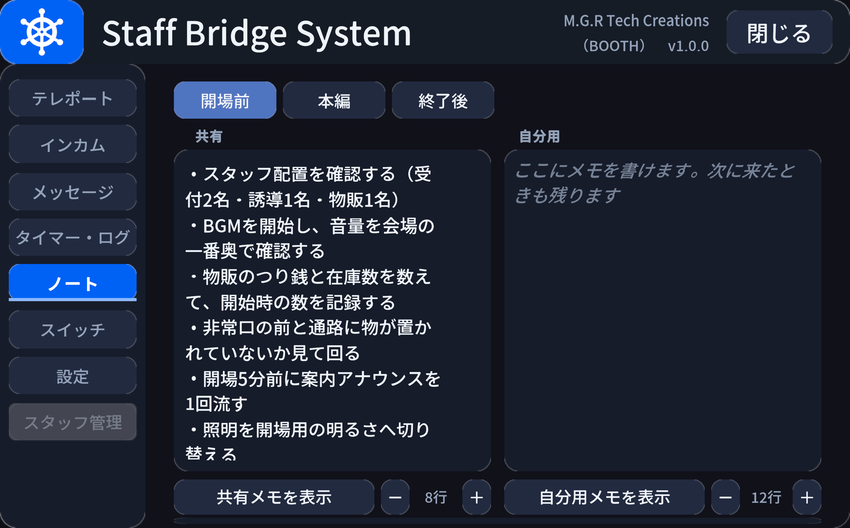
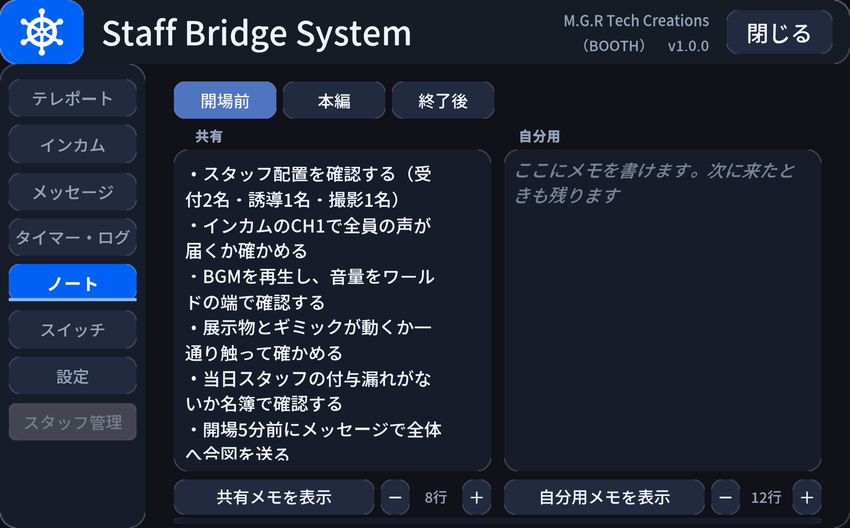
SBSの現行仕様に合わせてマニュアルを更新する
通知位置、VRメガホン、タイマー音、スタッフ保護、既存ワールドの更新手順を実装と照合する。
タブ配置とフォントの説明を修正し、操作画面の画像を更新する。
回りくどい説明を校正し、設定や操作によって変わる内容を具体的に書く。

MkDocs strict build、内部リンク1034件、Chromeでの表示を確認。

Changed region(s): [[0.2141, 0.3636, 0.52, 0.8788]]

diff --git a/docs/staff-bridge-system/customize.md b/docs/staff-bridge-system/customize.md
@@ -1,6 +1,6 @@
 # 見た目のカスタマイズ
 
-メニューの配色とフォントは、セットアップウィンドウの **カスタマイズ ＞ テーマ・フォント** ページ から変更します。
+メニューの配色とフォントは、セットアップウィンドウの **カスタマイズ ＞ テーマ・フォント** ページから変更します。
 
 ![テーマ・フォントページ](images/edit-theme.png)
 
@@ -10,7 +10,7 @@
 
 同梱プリセットは9種類です。選択すると、実機と同じ比率のミニプレビューで配色を確認できます。
 
-下の表の配色見本は、左から **背景／面／ボタン／選択／文字** です（セットアップウィンドウに出る見本と同じ並び順）。「選択」はタブや現在地のハイライトに使われ、そのテーマの性格を決める色です。
+下の表の配色見本は、左から **背景／面／ボタン／選択／文字** です（セットアップウィンドウに出る見本と同じ並び順）。「選択」はタブや現在地のハイライトに使う色です。
 
 ### 暗色
 
@@ -18,13 +18,13 @@
 
 | テーマ | 配色 | 特徴 |
 |---|---|---|
-| コントロールルーム（既定） | <span class="sw"><i style="background:#0D1119"></i><i style="background:#161D2B"></i><i style="background:#222C3F"></i><i style="background:#0062F5"></i><i style="background:#EFF3FA"></i></span> | 紺×青の落ち着いた定番 |
-| バックステージ（炭黒×イエロー） | <span class="sw"><i style="background:#131211"></i><i style="background:#1E1C19"></i><i style="background:#262421"></i><i style="background:#FFC933"></i><i style="background:#F7F5F0"></i></span> | 工具・安全ベストのような現場感 |
-| トワイライト（藍紫） | <span class="sw"><i style="background:#181729"></i><i style="background:#232138"></i><i style="background:#302D4B"></i><i style="background:#A99BE8"></i><i style="background:#F2F0FA"></i></span> | 夜空のような藍紫 |
-| ランタン（暖色） | <span class="sw"><i style="background:#1C1613"></i><i style="background:#281F1A"></i><i style="background:#362A22"></i><i style="background:#F0913D"></i><i style="background:#F7F0E8"></i></span> | 提灯・焚き火のような暖かい暗色 |
-| オーシャン（深青×シアン） | <span class="sw"><i style="background:#101820"></i><i style="background:#182430"></i><i style="background:#24333F"></i><i style="background:#3EC6DE"></i><i style="background:#EDF4F8"></i></span> | 水中のような涼しい深青 |
-| いちごショコラ（暗色） | <span class="sw"><i style="background:#241318"></i><i style="background:#311C24"></i><i style="background:#402731"></i><i style="background:#F291B4"></i><i style="background:#FAF2F0"></i></span> | ショコラ×いちごの暗いかわいい系 |
-| グラファイト（無彩色） | <span class="sw"><i style="background:#141518"></i><i style="background:#1F2126"></i><i style="background:#2A2D33"></i><i style="background:#E8EAEE"></i><i style="background:#EDEFF2"></i></span> | 黒×白のミニマル |
+| コントロールルーム（既定） | <span class="sw"><i style="background:#0D1119"></i><i style="background:#161D2B"></i><i style="background:#222C3F"></i><i style="background:#0062F5"></i><i style="background:#EFF3FA"></i></span> | 紺の背景と青のアクセント |
+| バックステージ（炭黒×イエロー） | <span class="sw"><i style="background:#131211"></i><i style="background:#1E1C19"></i><i style="background:#262421"></i><i style="background:#FFC933"></i><i style="background:#F7F5F0"></i></span> | 炭黒の背景と黄色のアクセント |
+| トワイライト（藍紫） | <span class="sw"><i style="background:#181729"></i><i style="background:#232138"></i><i style="background:#302D4B"></i><i style="background:#A99BE8"></i><i style="background:#F2F0FA"></i></span> | 藍紫の背景と薄紫のアクセント |
+| ランタン（暖色） | <span class="sw"><i style="background:#1C1613"></i><i style="background:#281F1A"></i><i style="background:#362A22"></i><i style="background:#F0913D"></i><i style="background:#F7F0E8"></i></span> | 暗い茶色の背景とオレンジのアクセント |
+| オーシャン（深青×シアン） | <span class="sw"><i style="background:#101820"></i><i style="background:#182430"></i><i style="background:#24333F"></i><i style="background:#3EC6DE"></i><i style="background:#EDF4F8"></i></span> | 深い青の背景とシアンのアクセント |
+| いちごショコラ（暗色） | <span class="sw"><i style="background:#241318"></i><i style="background:#311C24"></i><i style="background:#402731"></i><i style="background:#F291B4"></i><i style="background:#FAF2F0"></i></span> | 暗い赤茶の背景とピンクのアクセント |
+| グラファイト（無彩色） | <span class="sw"><i style="background:#141518"></i><i style="background:#1F2126"></i><i style="background:#2A2D33"></i><i style="background:#E8EAEE"></i><i style="background:#EDEFF2"></i></span> | 黒の背景と白のアクセント |
 | カラーユニバーサル | <span class="sw"><i style="background:#12151A"></i><i style="background:#1B2028"></i><i style="background:#2A3038"></i><i style="background:#E9EDF2"></i><i style="background:#EDF1F6"></i></span> | 発話=青・OFF=橙 |
 
 </div>
@@ -35,15 +35,15 @@
 
 | テーマ | 配色 | 特徴 |
 |---|---|---|
-| ストロベリークリーム（明色） | <span class="sw"><i style="background:#F6EDE6"></i><i style="background:#FBF6F1"></i><i style="background:#EBDBD2"></i><i style="background:#D96A93"></i><i style="background:#3A2E2C"></i></span> | 生クリーム×いちごの明るいかわいい系 |
+| ストロベリークリーム（明色） | <span class="sw"><i style="background:#F6EDE6"></i><i style="background:#FBF6F1"></i><i style="background:#EBDBD2"></i><i style="background:#D96A93"></i><i style="background:#3A2E2C"></i></span> | クリーム色の背景とピンクのアクセント |
 
 </div>
 
 ## 配色を自分で決める（カスタム）
 
-テーマ一覧の「カスタム（色を自分で決める）」を選ぶと、役割色12色を個別に編集できます。プリセットを起点にして一部だけ変えることもできます。
+テーマ一覧の「カスタム（色を自分で決める）」を選ぶと、役割色12色を個別に編集できます。プリセットの色を一部だけ変えることもできます。
 
-役割色の意味はテーマをまたいで固定されています。
+各色の用途は、どのテーマでも共通です。
 
 | 役割 | 用途 |
 |---|---|
@@ -53,11 +53,11 @@
 | 退出（Danger 系） | OFF・退出 |
 | 本文 / 見出し | 文字色 |
 
-発話ボタンと退出ボタンは「ボタンの地色 ＋ 左端の意味色の帯 ＋ 意味色の文字」で構成されます。彩度の高い塗りが並ぶとフッターだけテーマから浮くためです。**送信は緑系・退出は赤系**という意味色は、カラーユニバーサル（青 × 橙）を除いてどのテーマでも共通なので、テーマを変えても操作感は変わりません。
+発話ボタンと退出ボタンは「ボタンの地色 ＋ 左端の意味色の帯 ＋ 意味色の文字」で構成されます。**送信は緑系・退出は赤系**という色分けは、カラーユニバーサル（青 × 橙）を除いて共通です。
 
 ## フォントを差し替える { #font }
 
-既定では、前提パッケージの日本語フォント（VRChat のフォールバックと同じ NotoSansJP）が使われます。指定なしのままで日本語が表示されるので、フォントの用意は不要です。
+出荷テキストは軽量な Empty SDF を参照し、VRChatではクライアント内蔵の日本語フォントへフォールバックして表示されます。Unity Editorでは、前提パッケージの日本語フォントをセットアップがフォールバックへ設定します。指定なしのままで使えます。
 
 差し替えたい場合は、同じ画面の「フォント（任意）」に TMP フォントアセットを指定すると、生成されるテキストにそのフォントが使われます。色テーマとは独立した設定なので、どのテーマとも組み合わせられます。
 

diff --git a/docs/staff-bridge-system/reference.md b/docs/staff-bridge-system/reference.md
@@ -28,7 +28,7 @@
 
 メニューの開閉・表示位置・スタッフ判定の門番を担当します。個々の機能はパネルとして分離されています。
 
-下の「開閉操作」「表示」は、セットアップ窓の **カスタマイズ ＞ メニューの出かた** ページからも変えられます（通常はそちらが早いです）。
+下の「開閉操作」「表示」は、セットアップ窓の **カスタマイズ ＞ メニューの出かた** ページからも変えられます。
 
 ![StaffMenuShell のインスペクタ](images/inspector-menushell.png)
 
@@ -103,17 +103,17 @@
 
 ## StaffMegaphone（メガホン） { #megaphone }
 
-拡声している間だけ、スタッフ以外を含む全員へ声を届けます。インカムのチャンネル機構の外を通るため、インカムとは競合しません。
+拡声している間だけ、スタッフ以外を含む全員へ声を届けます。インカム送信とは同時に使えず、片方の使用中はもう片方を起動できません。
 
 | 項目 | 型 | 既定 | 内容 |
 |---|---|---|---|
-| 起動長押し秒 | float | 0.5 | ボタンを押し続けてから拡声が始まるまでの秒数（誤タップ防止） |
-| 最大使用秒 | float | 180 | 連続使用がこの秒数を超えたら強制的に切る保険 |
+| 起動長押し秒 | float | 0.5 | ボタン・VRトリガーを保持してから拡声が始まるまでの秒数（誤タップ防止） |
+| 最大使用秒 | float | 180 | 連続使用できる秒数。超えると自動で停止する |
 | VRジェスチャーを使う | bool | ON | 左手をインカムと同じ位置へ近づけてトリガーを引くと拡声する。OFF にするとボタンと Desktop キーだけになる |
 
 インカムとの相互排他、スタッフでなくなったときの即時停止、使用中のステータス表示は常に有効で、設定項目はありません。
 
-ボタンの方式（長押し／トグル）と Desktop キーは各自が[設定タブ](usage.md#settings)で選びます。初期値は [StaffTalkSettings](#talk-settings) が持ちます。ジェスチャーの位置（耳／肩／胸元）と判定半径は[インカム](#incom)側の設定を共通で使い、手はインカム＝右・メガホン＝左で固定です。
+ボタンの方式（長押し／トグル）、Desktopキー、VRの方式（長押し／トグル／OFF）は各自が[設定タブ](usage.md#settings)で選びます。初期値は [StaffTalkSettings](#talk-settings) が持ちます。ジェスチャーの位置（耳／肩／胸元）と判定半径は[インカム](#incom)側の設定を共通で使い、手はインカム＝右・メガホン＝左で固定です。
 
 ---
 
@@ -160,7 +160,7 @@
 
 | 項目 | 型 | 既定 | 内容 |
 |---|---|---|---|
-| 表示位置 | int | 0 | 出す位置の初期値（0 = 左下 / 2 = 表示しない。1 = 右下は廃止し、指定されていても左下へ丸める）。**各自が設定タブで上書きでき、その選択は PlayerData に保存されます** |
+| 表示位置 | int | 0 | 出す位置の初期値（0 = 左下 / 2 = 表示しない / 3 = 左上。1 = 右下は廃止し、指定されていても左下へ丸める）。**各自が設定タブで上書きでき、その選択は PlayerData に保存されます** |
 | 入退室を表示する | bool | ON | 入退室をログに流す。人の出入りが多いイベントでは OFF にできる |
 | 表示秒 | float | 20 | 1件が消えるまでの秒数 |
 | 自分宛表示秒 | float | 40 | 個別に自分宛だったメッセージが消えるまでの秒数（読み逃し防止のため長め） |
@@ -180,6 +180,7 @@
 |---|---|---|---|
 | 確認の有効秒 | float | 5 | 共有タイマーの開始／取消で、1回目から2回目までに確定できる秒数 |
 | ログ出力する | bool | OFF | 共有タイマーの操作を Console に出す |
+| 到達通知音 | AudioSource | 生成時に配線 | 共有・ローカルタイマーの到達時に鳴らす短い音。個人設定の通知音量に従う |
 
 共有タイマーの操作ができるのはスタッフだけです。時間切れは[通知ログ](#notice-log)に「共有タイマー ◯分が経過しました」と流れます（ローカル側は「ローカルタイマー」と出るので、ほぼ同時に鳴っても見分けられます）。
 
@@ -234,7 +235,7 @@
 
 ### 送り先での反映範囲 { #trigger-global }
 
-イベントを送るのは**押した本人のクライアントだけ**です。全員の画面に反映するかどうかは送り先のギミックが決めます。送り先の負荷が読めないまま人数ぶんに増やさないための切り分けです。
+イベントを送るのは**押した本人のクライアントだけ**です。全員の画面に反映するかどうかは送り先のギミックが決めます。
 
 GameObject の出し入れなら、同梱の [StaffObjectToggle](#object-toggle) の **同期する** を ON にしてください。それ以外のギミックを全員へ届ける方法は、そのギミックの作りによります。Udon で受け側を自作する場合の同期の書き方・レイトジョイナー対応は [自作ギミックとつなぐ](for-developers.md) にまとめています。
 
@@ -291,6 +292,7 @@ GameObject の出し入れなら、同梱の [StaffObjectToggle](#object-toggle)
 | DTキー初期番号 | int | 1 | インカムの初期選択の候補番号（0 = 1番目 = なし） |
 | メガホンをトグルにするを初期ONにする | bool | OFF | ON にすると、メガホンの初期状態がトグルになる |
 | メガホンDTキー初期番号 | int | 0 | メガホンの初期選択の候補番号。既定は割り当てなし |
+| メガホンVR初期方式 | int | 0 | VRショートカットの初期方式（0 = 長押し / 1 = トグル / 2 = OFF） |
 
 ### StaffUiPrefs（UI サイズ・距離）
 
@@ -405,7 +407,7 @@ GameObject の出し入れなら、同梱の [StaffObjectToggle](#object-toggle)
 
 ### StaffPurgeSwitch（スタッフ一括解除スイッチ）
 
-2回インタラクトすると、当日スタッフを全員ぶん解除します。押せるのは**常設スタッフで、かつ現在スタッフ ON の人**だけです（スタッフ管理タブと同じ条件。当日スタッフは押せません）。常設スタッフは解除されません。インスタンスに居ない人には届きません（[運用ガイド](operation.md#staff-detection) 参照）。
+2回インタラクトすると、当日スタッフを全員ぶん解除します。押せるのは**常設スタッフで、かつ現在スタッフ ON の人**だけです（スタッフ管理タブと同じ条件。当日スタッフは押せません）。名簿に載っている常設スタッフは、自動ONの設定に関係なく解除されません。インスタンスに居ない人には届きません（[運用ガイド](operation.md#staff-detection) 参照）。
 
 | 項目 | 型 | 既定 | 内容 |
 |---|---|---|---|

diff --git a/docs/staff-bridge-system/features.md b/docs/staff-bridge-system/features.md
@@ -1,6 +1,6 @@
 # 機能一覧
 
-本製品に入っている機能の一覧です。各行の「詳しくは」から使い方・設定項目へ移動できます。
+各機能の使い方と設定は、表のリンクから確認できます。
 
 ## SBSメニュー
 
@@ -12,14 +12,14 @@
 |---|---|---|
 | テレポート | 登録した地点と、在室スタッフのところへ移動する。相手の背後に着地する。★でお気に入りに入れると一覧の上に並ぶ | [使い方](usage.md#teleport) / [設定](reference.md#teleport) |
 | インカム | 同じチャンネルに参加している人だけに聞こえる通話。参加中のメンバーと、いま話している人が一覧に出る | [使い方](usage.md#incom) / [設定](reference.md#incom) |
-| メガホン | スタッフ以外を含む全員に距離を無視して声を届ける。ボタン長押し／Desktopキー／VRジェスチャー（左手）の3通りで始められる | [使い方](usage.md#megaphone) / [設定](reference.md#megaphone) |
+| メガホン | 距離に関係なく、スタッフ以外を含む全員へ声を届ける。ボタン長押し／Desktopキー／VRジェスチャー（左手）の3通りで始められる。VRは長押し／トグル／OFFを選択可能 | [使い方](usage.md#megaphone) / [設定](reference.md#megaphone) |
 | 一斉メッセージ | 全スタッフ、宛先グループ、選んだスタッフへ定型文を送る。グループと個人はまとめて選べ、複数に当てはまる人にも1通だけ届く | [使い方](usage.md#broadcast) / [設定](reference.md#broadcast) |
-| タイマー | 全員に見える共有タイマーと、自分だけのタイマー・ストップウォッチ | [使い方](usage.md#timer) / [設定](reference.md#timer) |
-| 入退室ログ | 誰がいつ入って出たかの記録 | [使い方](usage.md#timer) / [設定](reference.md#join-log) |
+| タイマー | スタッフ全員に見える共有タイマーと、自分だけのタイマー・ストップウォッチ。時間になると短い通知音が鳴る | [使い方](usage.md#timer) / [設定](reference.md#timer) |
+| 入退室ログ | 誰がいつ入室・退室したかの記録 | [使い方](usage.md#timer) / [設定](reference.md#join-log) |
 | ノート | 全員に見える共有メモと、自分だけの走り書きメモ。進行台本やチェックリストの掲示に使う。どちらも視界の右下に出しておける | [使い方](usage.md#note) / [設定](reference.md#cue) |
 | スイッチ | 手元からワールド内のギミックへイベントを送る。誰がいつ押したかの履歴が残る | [使い方](usage.md#switch) / [設定](reference.md#trigger) |
-| 通知ログ | 受信・タイマーの時間切れ・人の出入りを、視界の隅の1本のログにまとめて流す | [使い方](usage.md#notice-log) / [設定](reference.md#notice-log) |
-| スタッフ管理 | 在室者を当日スタッフにする／当日スタッフを外す。常設スタッフだけに出るタブ | [使い方](usage.md#staff-manage) / [設定](reference.md#grant-panel) |
+| 通知ログ | 受信・タイマーの時間切れ・人の出入りを、視界の隅の1本のログにまとめて流す。左下／左上／非表示を選択可能 | [使い方](usage.md#notice-log) / [設定](reference.md#notice-log) |
+| スタッフ管理 | 在室者を当日スタッフにする／当日スタッフを外す。常設スタッフで現在スタッフONの人だけが開けるタブ | [使い方](usage.md#staff-manage) / [設定](reference.md#grant-panel) |
 | 設定 | 音量・UI サイズ・発話方式・通知ログの位置を各自で調整する。再入場しても残る | [使い方](usage.md#settings) / [既定値](reference.md#settings-defaults) |
 
 ## シーンに置くもの
@@ -38,7 +38,7 @@
 
 ## Unity 側の編集ツール
 
-Inspector を直接触らずに済むよう、専用ウィンドウ（**Tools ＞ MGR ＞ Staff Bridge System ＞ セットアップ**）から編集します。
+主な設定は、**Tools ＞ MGR ＞ Staff Bridge System ＞ セットアップ** から編集できます。
 
 | ページ | できること | 詳しくは |
 |---|---|---|

diff --git a/docs/staff-bridge-system/changelog.md b/docs/staff-bridge-system/changelog.md
@@ -10,18 +10,18 @@
 
 初回リリース。
 
-**スタッフメニュー**
+**SBSメニュー**
 
 - 手元パネルにテレポート／一斉メッセージ／インカム操作を統合
 - メンバー一覧・メッセージログの各ページ
 - タブの並べ替えと ON / OFF（設定を引き継いだままメニューを作り直せる）
 - 件数の多いリストは右端の ▲▼ ボタンで送る（Desktop でも行ボタンを確実に押せるようにするため、ドラッグでのスクロールは使わない）
-- 配色テーマ11種＋カスタム（役割色12色を個別編集）、フォント差し替え
+- 配色テーマ9種＋カスタム（役割色12色を個別編集）、フォント差し替え
 - 生成済みメニューへの再着色（行き先・参照は保持）
 
 **タイマー・ログ／ノート／スイッチ**
 
-- 共有タイマー（全員に同じ残り時間。開始と取消は2回押し）、ローカルタイマー、ストップウォッチ
+- 共有タイマー（スタッフ全員に同じ残り時間。開始と取消は2回押し）、ローカルタイマー、ストップウォッチ。タイマー到達時は通知音
 - 入退室ログ（入室＝緑・退室＝赤。全画面の一覧ページつき）
 - ノート（進行台本のページ表示と、自分だけの走り書きメモ）
 - スイッチ（手元からワールド内のギミックへイベントを送る。誰がいつ押したかの履歴を直近64件まで同期表示）
@@ -30,9 +30,9 @@
 
 - メッセージ受信・タイマー到達・入退室・スタッフ権限の変化・スイッチ発火を、視界の隅の1本のログに集約
 - 種別ごとの色帯・時刻つき、本文は省略せず折り返し。最大5件・1件20秒（自分宛は枠つきで40秒）
-- 出す位置は各自が左下／右下／表示しないから選べる（再入場後も保持）
+- 出す位置は各自が左下／左上／表示しないから選べる（再入場後も保持）
 
-**インカム（無線）**
+**インカム**
 
 - チャンネル参加・発話ボタン（押している間だけ送信）／VR 耳元ジェスチャー発話・発話者表示
 - スタッフ限定モード（同チャンネルのみに聞こえる密話）
@@ -41,7 +41,7 @@
 
 **メガホン**
 
-- メガホン（長押し中だけ来場者を含む全員へ拡声。無線の送信とは相互排他）
+- メガホン（スタッフ以外を含む全員へ拡声。インカム送信と相互排他。VRは長押し／トグル／OFFを選択可能）
 
 **スタッフ管理・個人設定**
 
@@ -70,7 +70,7 @@
 **エディタ支援**
 
 - セットアップ窓（左サイドバーのページ式。導入／カスタマイズ／こまったら）
-- カスタマイズの各ページによく使う設定を集約（メニュー構成・チャンネル名・メガホンや無線の既定値・DTキー候補・名簿）
+- カスタマイズの各ページによく使う設定を集約（メニュー構成・チャンネル名・メガホンやインカムの既定値・Desktopキー候補・名簿）
 - インカムの一時停止（他の音声ギミックと同居させる回の切り替え）
 - セットアップ診断・自動修復、配置後の再リンク
 - アップロード前チェック（ログ出力の消し忘れ防止）

diff --git a/docs/staff-bridge-system/troubleshoot.md b/docs/staff-bridge-system/troubleshoot.md
@@ -83,14 +83,14 @@ FukuroUdon はバージョンによって内部のフィールド名が変わる
 
 - **イベント名が違う**可能性があります。スペルミスや大文字小文字の違いはコンパイルエラーにならず、無音で失敗します。スイッチページの **イベント名** を送り先の実装と突き合わせてください
 - **他の人の画面では何も起きない**場合、それは仕様です。イベントが送られるのは押した本人のクライアントだけで、全員へ届けるかどうかは送り先が決めます。同梱の `StaffObjectToggle` なら **同期する** を ON にしてください。それ以外のギミックは、そのギミック側の作りによります（[リファレンス](reference.md#trigger-global)）
-- 送り先のギミックが、あとから入室した人にも同じ状態を配る作りになっているかは、送り先側の責任です
+- 途中から入室した人にも状態を反映したい場合は、送り先のギミックが対応しているか確認してください
 
 ---
 
 ## 通知ログが出ない・邪魔になる
 
 - 出るのは**スタッフだけ**です。スタッフ状態を確認してください
-- 各自の設定タブで「表示しない」を選んでいると出ません。位置は左下から選べます
+- 各自の設定タブで「表示しない」を選んでいると出ません。位置は左下・左上から選べます。ミラーと重なる場合は切り替えてください
 - 人の出入りが多くて流れすぎる場合は、`StaffNoticeLog` の **入退室を表示する** を OFF にすると入退室が載らなくなります
 - 1件あたりの表示時間は `StaffNoticeLog` の **表示秒**（既定 20）で変えられます
 
@@ -161,3 +161,12 @@ BOOTH のメッセージ機能からご連絡ください。
 レポートを作るボタンはシーンに何も書き込みません。外部への送信も行いません。
 
 あわせて、Console に出ているエラーメッセージがあれば添えてください。
+
+
+## VRメガホンが意図せず起動する・止まらない
+
+設定タブの「メガホンVR」で長押し／トグル／OFFを選べます。トグルはトリガーを離しても続くため、もう一度押して止めてください。方式を変更したときも止まります。VRショートカットを使わない場合はOFFにします。
+
+## タイマーの通知音が聞こえない
+
+設定タブの「通知音」が0になっていないか確認してください。音が鳴るのはタイマーが0に到達したときです。ストップウォッチの経過中には鳴りません。

diff --git a/docs/staff-bridge-system/faq.md b/docs/staff-bridge-system/faq.md
@@ -44,7 +44,7 @@ UI の言語は？
 :   同時には使えません。防音室・個室・ボイスゾーン・音量調整・拡声など、プレイヤーの声を操作するギミックはインカムと同じ設定を書き換えるため、ワールドごとにどちらか片方を選ぶことになります。拡声だけなら本製品の[メガホン](usage.md#megaphone)でまかなえます。他のギミックを使う回は、セットアップ窓の**インカム**ページにある**インカムの一時停止**で本製品側を止められます。詳しくは[運用ガイド](operation.md#incom-power)を参照してください。
 
 メニューのフォントは変えられますか？
-:   変えられます。未指定のままなら前提パッケージの日本語フォント（VRChat のフォールバックと同じ NotoSansJP）が使われ、そのままで日本語が表示されます。任意の TMP フォントアセットを指定すると、生成されるテキストがそのフォントになります（[見た目のカスタマイズ](customize.md#font)）。
+:   変えられます。既定では軽量な Empty SDF を参照し、VRChat内蔵の日本語フォントへフォールバックして表示されます。Unity Editorでの日本語表示は前提パッケージとセットアップが補います。任意の TMP フォントアセットを指定すると、生成されるテキストがそのフォントになります（[見た目のカスタマイズ](customize.md#font)）。
 
 お気に入りのテレポート先は保存されますか？
 :   インスタンス内でのみ有効です。退室するとリセットされます。
@@ -53,7 +53,7 @@ UI の言語は？
 :   消せます。セットアップ窓の「メニュー構成」ページで、タブの ON / OFF と並び順を決めて作り直します（「設定」タブは常に ON）。テレポート先・チャンネル名・定型文・ノートの内容などは引き継がれます。
 
 視界に出る通知が邪魔なときは？
-:   各自が[設定タブ](usage.md#settings)で、左下・表示しないから選べます。設定は再入場しても残ります。
+:   各自が[設定タブ](usage.md#settings)で、左下・左上・表示しないから選べます。設定は再入場しても残ります。
 
 ノートの共有メモは誰が編集しますか？
 :   ワールド制作者です。セットアップ窓の「メニュー構成」ページから「ノート編集」を開いて書き換えます。ワールド内の入力欄は各自の走り書き用で、他の人には見えず、次に来たときも残ります。

diff --git a/docs/staff-bridge-system/howto.md b/docs/staff-bridge-system/howto.md
@@ -98,6 +98,7 @@
 
 | やりたいこと | 触る場所 |
 |---|---|
+| VRメガホンの誤操作を避けたい | ワールド内の設定タブ ＞ **メガホンVR** を長押し／トグル／OFFから選択 |
 | メガホンの起動を重く／軽くしたい | 既定値ページ ＞ **メガホンの長押し秒**（既定 0.5） |
 | メガホンの使いすぎを止めたい | 既定値ページ ＞ **メガホンの最大使用秒**（既定 180） |
 | スタッフ以外を含む全員に呼びかけたい | メニューのメガホンボタンを長押し → [メガホン](usage.md#megaphone) |
@@ -163,6 +164,7 @@
 | やりたいこと | 触る場所 |
 |---|---|
 | 着信音の初期音量を決めたい | 既定値ページ ＞ **通知音の初期音量**（既定 0.5） |
+| タイマー到達音を消したい | ワールド内の設定タブ ＞ **通知音** を0にする（ほかの通知音も無音になります） |
 | 各自で音量を絞りたい | メニューの[設定タブ](usage.md#settings)（操作音・通知音を別々に調整できる） |
 | スタッフ UI をカメラやミラーに映したくない | セットアップ時に自動設定されます。VRC_MirrorReflection の Reflect Layers は診断・修復ページで確認 |
 
